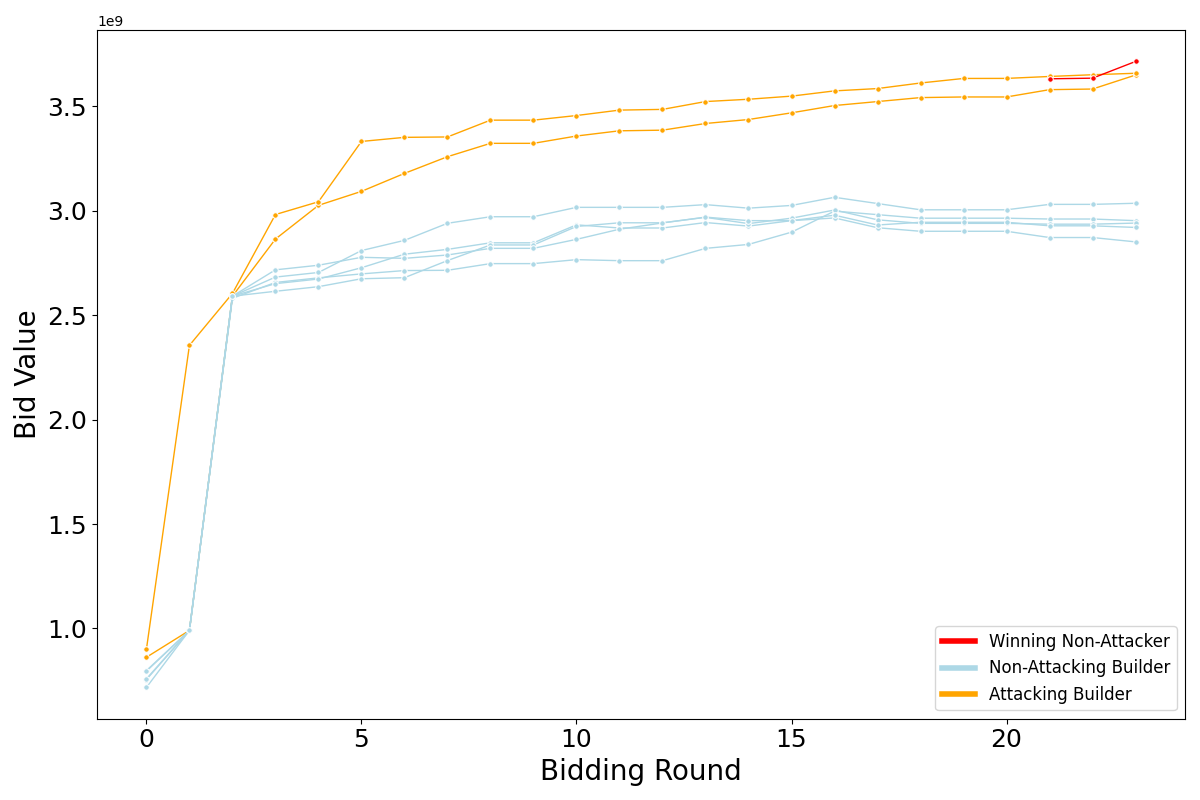
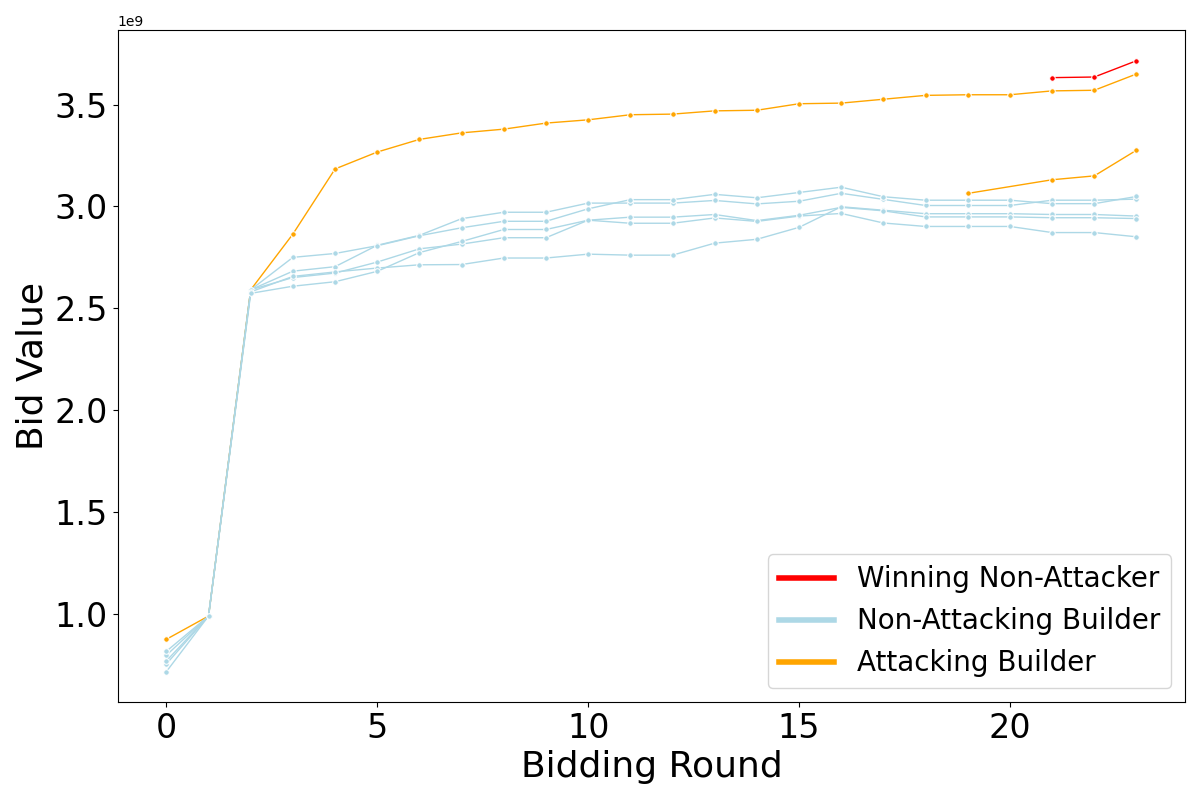
increase fontsize

diff --git a/plots/ss/bidding_dynamic.py b/plots/ss/bidding_dynamic.py
@@ -47,7 +47,7 @@ def plot_bid_dynamics(file_path, block_number):
         selected_builders = np.random.choice([b for b in unique_builders if b != winning_builder], size=7, replace=False)
         selected_builders = np.append(selected_builders, winning_builder)
     else:
-        selected_builders = unique_builders  
+        selected_builders = unique_builders
 
     # Plot
     plt.figure(figsize=(12, 8))
@@ -73,11 +73,11 @@ def plot_bid_dynamics(file_path, block_number):
         "Attacking Builder": "orange"
     }
     legend_handles = [plt.Line2D([0], [0], color=color, lw=4, label=label) for label, color in legend_labels.items()]
-    plt.legend(handles=legend_handles, loc="lower right", fontsize=12)
+    plt.legend(handles=legend_handles, loc="lower right", fontsize=20)
 
-    plt.xlabel('Bidding Round', fontsize=20)
-    plt.ylabel('Bid Value', fontsize=20)
-    plt.tick_params(axis='both', which='major', labelsize=18)
+    plt.xlabel('Bidding Round', fontsize=26)
+    plt.ylabel('Bid Value', fontsize=26)
+    plt.tick_params(axis='both', which='major', labelsize=24)
     plt.tight_layout()
     plt.savefig(output_figure_path)
     plt.show()
@@ -190,11 +190,11 @@ def plot_block_value_dynamics(file_path, block_number):
         "Attacking Builder": "orange"
     }
     legend_handles = [plt.Line2D([0], [0], color=color, lw=4, label=label) for label, color in legend_labels.items()]
-    plt.legend(handles=legend_handles, loc="lower right", fontsize=12)
+    plt.legend(handles=legend_handles, loc="lower right", fontsize=20)
 
-    plt.xlabel('Bidding Round', fontsize=20)
-    plt.ylabel('Block Value', fontsize=20)
-    plt.tick_params(axis='both', which='major', labelsize=18)
+    plt.xlabel('Bidding Round', fontsize=26)
+    plt.ylabel('Block Value', fontsize=26)
+    plt.tick_params(axis='both', which='major', labelsize=24)
     plt.tight_layout()
     plt.savefig(output_figure_path)
     plt.show()
